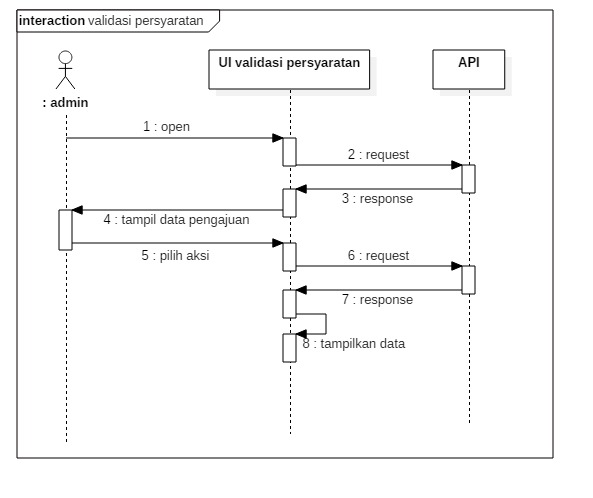
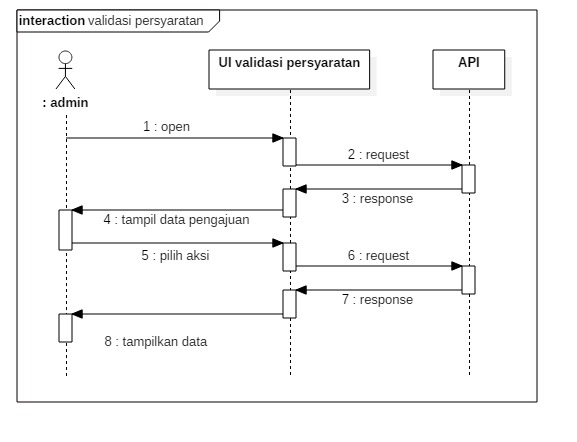
tambah doc sequence diagram(penjelsan dan diagram) dan update ambar validasi persyaratan sequence

Changed region(s): [[0.0, 0.0, 0.9359, 0.9412], [0.1872, 0.7647, 0.3744, 0.7941], [0.0936, 0.6176, 0.1248, 0.6471]]

diff --git a/doc/laporan/BAB-III.md b/doc/laporan/BAB-III.md
@@ -194,9 +194,127 @@ Aksi Aktor | Reaksi Sistem
 3.	Apabila ditolak, maka tekan tombol tolak | 4.	Mengirim notifikasi dan pesan ke anggota bahwa proposal ditolak
 <br>
 
-<h3><strong>3.2.1 Class Diagram</strong></h3>
+<h3><strong>3.2.2 Class Diagram</strong></h3>
 &nbsp;&nbsp;&nbsp;&nbsp;<p align="justify">Class Diagram adalah diagram UML yang menggambarkan kelas-kelas 
 dalam sebuah sistem dan hubungannya antara satu proses dengan proses yang lain, serta dimasukkan pula atribut 
 dan operasi. Class Diagram pada aplikasi sebagai berikut:</p>
 <p align="center"><img src="../../img/laporan/bab 3/uml/class diagram.PNG"></br></p>
 <p align="center"><i>Gambar 3.6 class diagram</i></p>
+<h3><strong>3.2.3 Sequence Diagram</strong></h3>
+&nbsp;&nbsp;&nbsp;&nbsp;<p align="justify">Sequence Diagram merupakan penggambaran keterhubungan atau interaksi 
+antar objek dalam suatu jangka waktu. Sequence Diagram terutama menampilkan interaksi antara pengguna (user) dengan sistem.</p>
+<h4><strong>3.2.3.1 Sequence Diagram Login</strong></h4>
+<p align="center"><img src="../../img/laporan/bab 3/uml/sequence diagram/1.Login.jpg"></br></p>
+<p align="center"><i>Gambar 3.7 sequence diagram login</i></p>
+<p align="justify">Tabel 3.12 Sequence Diagram Login</p>
+
+No| Nama Operasi| Keterangan
+------------ | ------------- | -------------
+1. |Open |	Membuka system
+2. |Tampil form login | 	Sistem menampilkan form login kepada actor
+3. |Input username dan password |Aktor mengisikan username dan password yang sudah dibuat
+4. |Request |Sistem merequest kepada API
+5. |Response |Sistem mendapatkan response dari API
+6. |Send form UI utama |Sistem mengirimkan userinterface utama
+<br> 
+
+<h4><strong>3.2.3.2 Sequence Diagram Registrasi</strong></h4>
+<p align="center"><img src="../../img/laporan/bab 3/uml/sequence diagram/2.registrasi.jpg"></br></p>
+<p align="center"><i>Gambar 3.8 sequence diagram registrasi</i></p>
+<p align="justify">Tabel 3.13 Sequence Diagram Registrasi</p>
+
+No| Nama Operasi| Keterangan
+------------ | ------------- | -------------
+1. |Open |	Membuka system
+2. |Tampil form registrasi | Sistem menampilkan form registrasi kepada actor
+3. |Input identitas |Aktor mengisikan identitas didalam form
+4. |Request |Sistem merequest kepada API
+5. |Response |Sistem mendapatkan response dari API
+6. |Send form UI utama |Sistem mengirimkan userinterface utama
+<br> 
+
+<h4><strong>3.2.3.3 Sequence Diagram Pengajuan Proposal</strong></h4>
+<p align="center"><img src="../../img/laporan/bab 3/uml/sequence diagram/3.pengajuan proposal.jpg"></br></p>
+<p align="center"><i>Gambar 3.9 sequence diagram pengajuan proposal</i></p>
+<p align="justify">Tabel 3.14 Sequence Diagram pengajuan proposal</p>
+
+No| Nama Operasi| Keterangan
+------------ | ------------- | -------------
+1. |Open |	Membuka system
+2. |Tampil UI | Sistem menampilkan UI pengajuan proposal kepada actor
+3. |Input data |Aktor mengisikan data ke dalam form
+4. |Request |Sistem merequest kepada API
+5. |Response |Sistem mendapatkan response dari API
+6. |Send form UI utama |Sistem mengirimkan userinterface utama
+<br> 
+
+<h4><strong>3.2.3.4 Sequence Validasi Persyaratan</strong></h4>
+<p align="center"><img src="../../img/laporan/bab 3/uml/sequence diagram/4.validasi persyaratan.jpg"></br></p>
+<p align="center"><i>Gambar 3.10 sequence diagram validasi persyaratan</i></p>
+<p align="justify">Tabel 3.15 Sequence Diagram validasi persyaratan</p>
+
+No| Nama Operasi| Keterangan
+------------ | ------------- | -------------
+1.	|Open 	|Membuka system
+2.	|Request 	|Sistem melakukan request kepada API
+3.	|Response	|System mendapatkan response dari API
+4.	|Tampil data pengajuan	|Sistem menampilkan data pengajuan proposal kepada admin
+5.	|Pilih aksi 	|Admin memilih aksi untuk menvalidasi persyaratan proposal
+6.	|Request	|Sistem mengirimkan request ke API
+7.	|Response 	|System mendapatkan response dari API
+8.	|Tampilkan data	|System menampilkan data setelah aksi
+<br> 
+
+<h4><strong>3.2.3.5 Sequence Distribusi Proposal</strong></h4>
+<p align="center"><img src="../../img/laporan/bab 3/uml/sequence diagram/5.distribusi proposal.jpg"></br></p>
+<p align="center"><i>Gambar 3.11 sequence diagram distribusi proposal</i></p>
+<p align="justify">Tabel 3.16 Sequence Diagram Distribusi proposal</p>
+
+No| Nama Operasi| Keterangan
+------------ | ------------- | -------------
+1.	|Open 	|Membuka system
+2.	|Request 	|Sistem melakukan request kepada API
+3.	|Response	|System mendapatkan response dari API
+4.	|Tampil data 	|Sistem menampilkan data proposal kepada admin
+5.	|Pilih perusahaan 	|Admin memilih perusahaan untuk dikirim proposal
+6.	|Request	|Sistem mengirimkan request ke API
+7.	|Response 	|System mendapatkan response dari API
+8.	|Tampilkan data	|System menampilkan data 
+<br> 
+
+<h4><strong>3.2.3.6 Sequence Diagram Review Proposal</strong></h4>
+<p align="center"><img src="../../img/laporan/bab 3/uml/sequence diagram/6.review proposal.jpg"></br></p>
+<p align="center"><i>Gambar 3.12 sequence diagram review proposal</i></p>
+<p align="justify">Tabel 3.17 Sequence Diagram review proposal</p>
+
+No| Nama Operasi| Keterangan
+------------ | ------------- | -------------
+1.	|Open 	|Membuka system
+2.	|Request 	|Sistem melakukan request kepada API
+3.	|Response	|System mendapatkan response dari API
+4.	|Tampil data 	|Sistem menampilkan data proposal kepada perusahaan
+5.	|Pilih aksi 	|perusahaan memilih aksi ke proposal yang diterima
+6.	|Request	|Sistem mengirimkan request ke API
+7.	|Response 	|System mendapatkan response dari API
+8.	|Tampilkan data	|System menampilkan data 
+<br> 
+
+<h4><strong>3.2.3.7 Sequence Diagram View Hasil Review Proposal</strong></h4>
+<p align="center"><img src="../../img/laporan/bab 3/uml/sequence diagram/7.view hasil review proposal.jpg"></br></p>
+<p align="center"><i>Gambar 3.13 sequence diagram view review proposal</i></p>
+<p align="justify">Tabel 3.18 Sequence Diagram view review proposal</p>
+
+No| Nama Operasi| Keterangan
+------------ | ------------- | -------------
+1.	|Open 	|Membuka system
+2.	|Request 	|Sistem melakukan request kepada API
+3.	|Response	|System mendapatkan response dari API
+4.	|Tampil data 	|Sistem menampilkan data hasil review proposal kepada anggota
+<br> 
+
+
+
+
+
+
+
